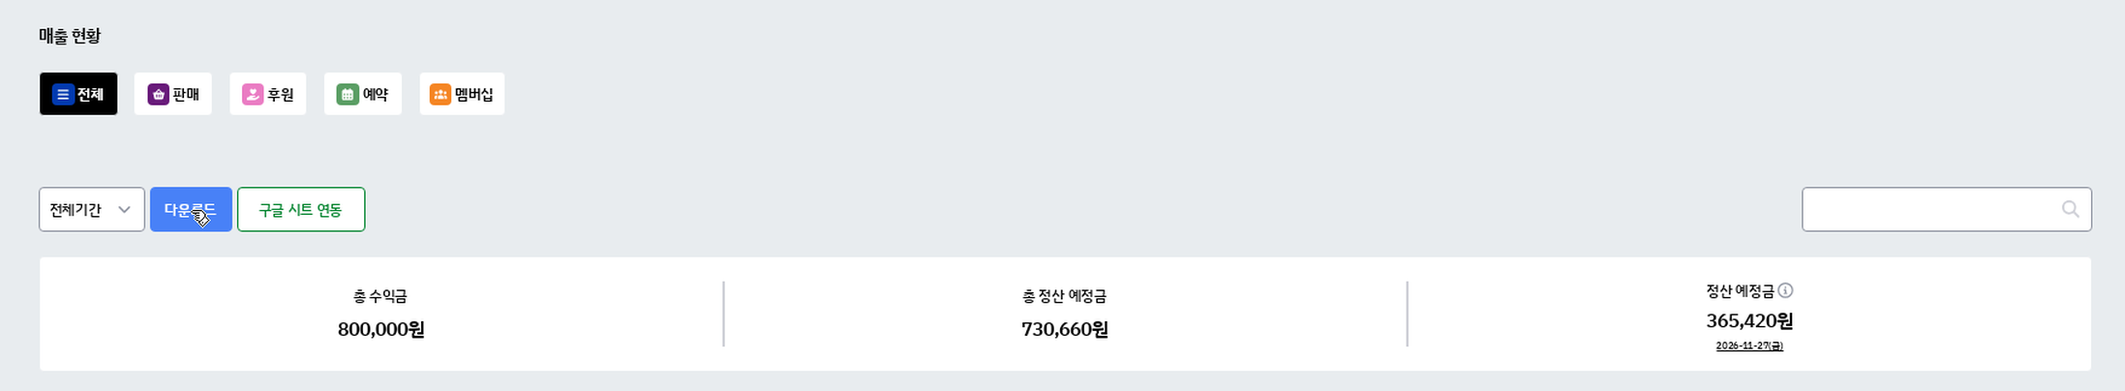
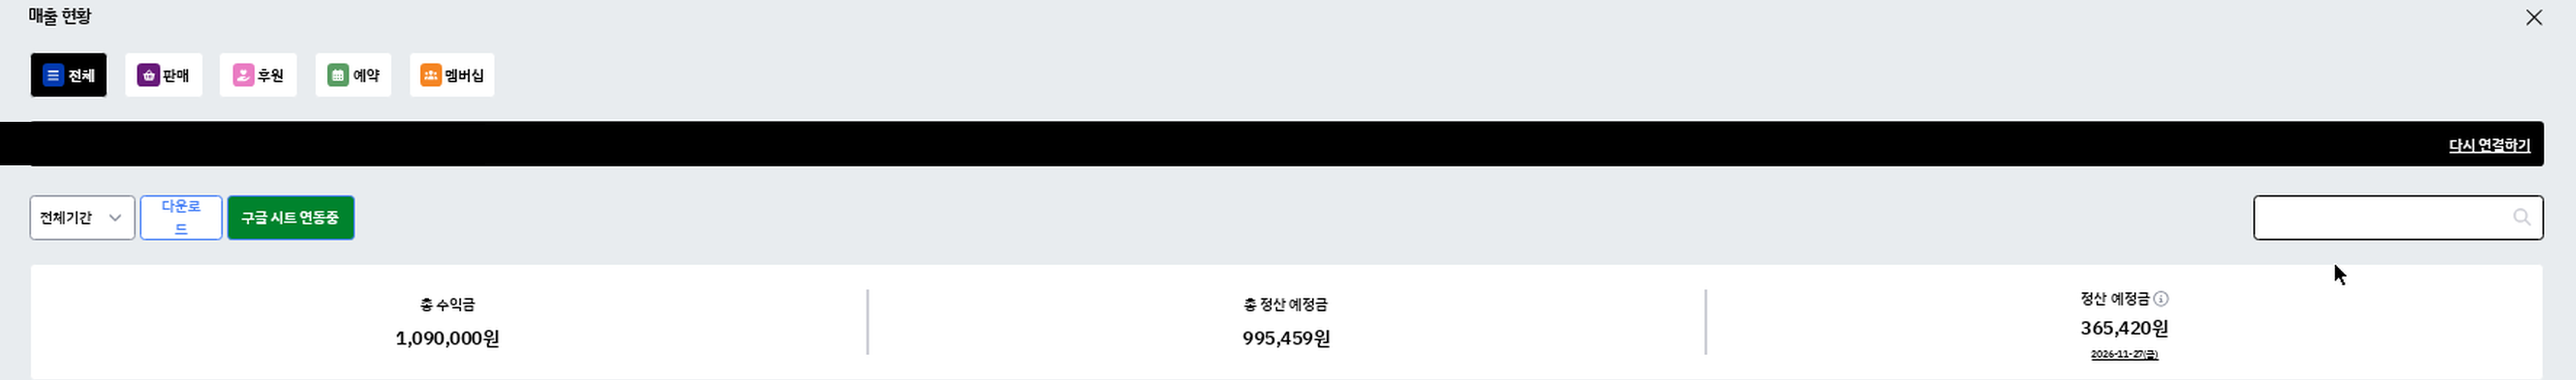
class: 실적 1,090,000원으로 갱신, 리틀리 캡처 2종 최신 교체

diff --git a/class/index.html b/class/index.html
@@ -4,17 +4,17 @@
 <meta charset="utf-8">
 <meta name="viewport" content="width=device-width, initial-scale=1">
 <title>LUDEN CLASS | 폰 하나로 복붙 1초 자동화 세팅 · 11월 한정 50,000원</title>
-<meta name="description" content="300만 원 강의 듣고 정지까지 당해본 사람이 직접 설계한, 월 고정비 0원 실전 자동화 시스템. 스레드·쿠팡파트너스·인스타·블로그·X·토스·쿠파스 7채널을 폰 하나로 세팅하는 올인원 7종 통합본 + 특전 3종. 정가 250,000원 → 11월 한정 50,000원.">
+<meta name="description" content="300만 원 강의 듣고 정지까지 당해본 사람이 직접 설계한, 월 고정비 0원 실전 자동화 시스템. 스레드·쿠팡파트너스·인스타·블로그·X·토스·쿠파스 7채널을 폰 하나로 세팅하는 올인원 7종 통합본 + 특전 3종. 판매 시작 일주일 만에 리틀리 누적 1,090,000원. 정가 250,000원 → 11월 한정 50,000원.">
 <meta name="theme-color" content="#08090B">
 <meta property="og:type" content="website">
 <meta property="og:title" content="LUDEN CLASS | 코딩 몰라도, 노트북 없어도 됩니다">
-<meta property="og:description" content="폰 하나로 복붙 1초 자동화 세팅. 월 고정비 0원 실전 자동화 시스템 · 올인원 7종 통합본 + 특전 3종. 정가 250,000원 → 11월 한정 50,000원.">
+<meta property="og:description" content="폰 하나로 복붙 1초 자동화 세팅. 월 고정비 0원 실전 자동화 시스템 · 올인원 7종 통합본 + 특전 3종. 일주일 만에 리틀리 누적 1,090,000원 판매. 정가 250,000원 → 11월 한정 50,000원.">
 <meta property="og:site_name" content="LUDEN CLASS (루덴 클래스)">
 <meta property="og:image" content="https://khcho0402-sys.github.io/luden-shop/class/og.png">
 <meta property="og:url" content="https://khcho0402-sys.github.io/luden-shop/class/">
 <meta name="twitter:card" content="summary_large_image">
 <meta name="twitter:title" content="LUDEN CLASS | 코딩 몰라도, 노트북 없어도 됩니다">
-<meta name="twitter:description" content="폰 하나로 복붙 1초 자동화 세팅 · 월 고정비 0원 · 11월 한정 50,000원">
+<meta name="twitter:description" content="폰 하나로 복붙 1초 자동화 세팅 · 월 고정비 0원 · 일주일 만에 1,090,000원 판매 · 11월 한정 50,000원">
 <meta name="twitter:image" content="https://khcho0402-sys.github.io/luden-shop/class/og.png">
 <link rel="canonical" href="https://khcho0402-sys.github.io/luden-shop/class/">
[1 lines of base64/hex data omitted]
@@ -668,8 +668,8 @@ footer{border-top:1px solid var(--line);background:#050608;padding:clamp(36px,5.
         <p class="hero-sub reveal">300만 원 강의 듣고 정지까지 당해본 사람이 직접 설계한,<br><b>월 고정비 0원</b> 실전 자동화 시스템.</p>
 
         <div class="badges reveal">
-          <span class="badge"><svg width="13" height="13" viewBox="0 0 24 24" fill="none" stroke="#E9C877" stroke-width="3" stroke-linecap="round" stroke-linejoin="round" aria-hidden="true"><path d="M20 6 9 17l-5-5"/></svg>출시 이틀 만 80만 원+ 매출</span>
-          <span class="badge"><svg width="13" height="13" viewBox="0 0 24 24" fill="none" stroke="#E9C877" stroke-width="3" stroke-linecap="round" stroke-linejoin="round" aria-hidden="true"><path d="M20 6 9 17l-5-5"/></svg>무료 입문서 55명+ 선택</span>
+          <span class="badge"><svg width="13" height="13" viewBox="0 0 24 24" fill="none" stroke="#E9C877" stroke-width="3" stroke-linecap="round" stroke-linejoin="round" aria-hidden="true"><path d="M20 6 9 17l-5-5"/></svg>일주일 만에 109만 원 판매</span>
+          <span class="badge"><svg width="13" height="13" viewBox="0 0 24 24" fill="none" stroke="#E9C877" stroke-width="3" stroke-linecap="round" stroke-linejoin="round" aria-hidden="true"><path d="M20 6 9 17l-5-5"/></svg>무료 입문서 58명 선택</span>
         </div>
 
         <div class="hero-price reveal">
@@ -708,8 +708,8 @@ footer{border-top:1px solid var(--line);background:#050608;padding:clamp(36px,5.
     </div>
 
     <div class="stats reveal">
-      <div class="stat"><div class="num">80만<em>원+</em></div><div class="lb">출시 이틀 누적 매출</div></div>
-      <div class="stat"><div class="num">55<em>명+</em></div><div class="lb">0원 무료 입문서 선택</div></div>
+      <div class="stat"><div class="num">109만<em>원</em></div><div class="lb">11/17~21 리틀리 누적 매출</div></div>
+      <div class="stat"><div class="num">58<em>명</em></div><div class="lb">0원 무료 입문서 신청</div></div>
       <div class="stat"><div class="num">7<em>종</em></div><div class="lb">한 번에 세팅하는 채널</div></div>
       <div class="stat"><div class="num">0<em>원</em></div><div class="lb">매달 나가는 고정비</div></div>
     </div>
@@ -940,15 +940,15 @@ footer{border-top:1px solid var(--line);background:#050608;padding:clamp(36px,5.
 
     <div class="proof reveal">
       <div class="proof-main">
-        <div class="big">800,000<span>원</span></div>
-        <p>리틀리 관리자 화면의 누적 수익금. 이전 판매분을 포함한 누적 금액이며, 5만 원 통합본 전환 이후 결제가 이어지며 도달한 숫자입니다.</p>
-        <div class="proof-foot" style="margin-top:18px">2026년 11월 20일 오전, 리틀리 판매 관리 화면 캡처 기준.</div>
+        <div class="big">1,090,000<span>원</span></div>
+        <p>리틀리 관리자 화면의 누적 수익금. 1,000원 시절 판매분과 5만 원 통합본·1만 원 단품 판매분을 모두 더한 금액입니다.</p>
+        <div class="proof-foot" style="margin-top:18px">2026년 11월 21일 19:45, 리틀리 매출 현황 화면 캡처 기준. 총 정산 예정금 995,459원.</div>
       </div>
       <div class="proof-side">
         <div class="proof-box">
-          <div class="lbl">Consecutive orders</div>
-          <div class="val">7<em>건</em></div>
-          <p>11월 18일 21:05 ~ 19일 23:05, 50,000원 결제가 끊기지 않고 이어진 기록.</p>
+          <div class="lbl">Paid orders · 4 days</div>
+          <div class="val">21<em>건</em></div>
+          <p>11월 18일 09:31 ~ 21일 19:23, 5만 원 17건 + 1만 원 4건 = 890,000원.</p>
         </div>
         <div class="proof-box">
           <div class="lbl">Purchaser reviews</div>
@@ -959,32 +959,32 @@ footer{border-top:1px solid var(--line);background:#050608;padding:clamp(36px,5.
     </div>
 
     <div class="shots">
-      <button type="button" class="shot reveal" data-zoom="assets/proof-daily-sales.png" data-cap="50,000원 결제 내역 (11.18 21:05 ~ 11.19 23:05)" data-alt="리틀리 판매 관리 화면의 50,000원 결제 내역 목록, 주문자 정보 모자이크 처리">
-        <span class="thumb"><img src="assets/proof-daily-sales.png" alt="50,000원 결제 내역이 연속으로 표시된 판매 관리 화면, 주문자 정보 모자이크" width="1875" height="1206" loading="lazy"></span>
+      <button type="button" class="shot reveal" data-zoom="assets/proof-daily-sales.png" data-cap="50,000원 결제 10건 연속 (11.18 13:13 ~ 11.19 23:05)" data-alt="리틀리 판매 관리 화면의 50,000원 결제 내역 10건 목록, 주문자 정보 모자이크 처리">
+        <span class="thumb"><img src="assets/proof-daily-sales.png" alt="50,000원 결제 내역이 연속으로 표시된 판매 관리 화면, 주문자 정보 마스킹" width="2630" height="1293" loading="lazy"></span>
         <span class="cap">
-          <span class="row"><span class="t">① 50,000원 결제 7건 연속</span><span class="z">⤢ 크게 보기</span></span>
-          <span class="s">주문번호·결제 시각·금액이 그대로 남은 판매 내역. 11월 18일 21:05부터 19일 23:05까지 이어집니다.</span>
+          <span class="row"><span class="t">① 5만 원 결제 10건 연속</span><span class="z">⤢ 크게 보기</span></span>
+          <span class="s">11월 18일 13:13부터 19일 23:05까지, 5만 원 결제만 10건. 주문번호·결제 시각·금액이 그대로 남은 판매 내역입니다.</span>
         </span>
       </button>
 
-      <button type="button" class="shot reveal" data-zoom="assets/proof-revenue.png" data-cap="리틀리 누적 수익금 800,000원" data-alt="리틀리 판매 관리 화면의 누적 수익금 800,000원 표시">
-        <span class="thumb"><img src="assets/proof-revenue.png" alt="리틀리 판매 관리 화면에 표시된 총 수익금 800,000원" width="2195" height="404" loading="lazy"></span>
+      <button type="button" class="shot reveal" data-zoom="assets/proof-revenue.png" data-cap="리틀리 누적 수익금 1,090,000원" data-alt="리틀리 판매 관리 화면의 누적 수익금 1,090,000원 표시">
+        <span class="thumb"><img src="assets/proof-revenue.png" alt="리틀리 판매 관리 화면에 표시된 총 수익금 1,090,000원" width="2660" height="393" loading="lazy"></span>
         <span class="cap">
-          <span class="row"><span class="t">② 누적 수익금 800,000원</span><span class="z">⤢ 크게 보기</span></span>
-          <span class="s">2026년 11월 20일 리틀리 판매 관리 화면. 총 수익금·정산 예정금이 함께 표시됩니다.</span>
+          <span class="row"><span class="t">② 누적 수익금 1,090,000원</span><span class="z">⤢ 크게 보기</span></span>
+          <span class="s">2026년 11월 21일 리틀리 매출 현황 화면. 총 수익금·총 정산 예정금·정산 예정금(2026년 11월 27일)이 함께 표시됩니다.</span>
         </span>
       </button>
 
-      <button type="button" class="shot reveal" data-zoom="assets/proof-reviews-1.png" data-cap="5만 원 전환 후 최신 구매후기 3건" data-alt="2026년 11월 18일~19일에 작성된 구매후기 3건 캡처">
+      <button type="button" class="shot reveal" data-zoom="assets/proof-reviews-1.png" data-cap="5만 원 전환 후 구매후기 3건" data-alt="2026년 11월 18일~19일에 작성된 구매후기 3건 캡처">
         <span class="thumb"><img src="assets/proof-reviews-1.png" alt="11월 18일과 19일에 작성된 구매후기 3건" width="1220" height="348" loading="lazy"></span>
         <span class="cap">
-          <span class="row"><span class="t">③ 최신 구매후기 3건</span><span class="z">⤢ 크게 보기</span></span>
-          <span class="s">구매후기 14건 중 가장 위에 올라온 3건. 작성자 아이디만 가렸습니다.</span>
+          <span class="row"><span class="t">③ 구매후기 3건</span><span class="z">⤢ 크게 보기</span></span>
+          <span class="s">구매후기 14건 중 위에 올라온 3건. 작성자 아이디만 가렸습니다.</span>
         </span>
       </button>
     </div>
 
-    <p class="proof-foot reveal">캡처 3종은 2026년 11월 20일 리틀리 판매 관리·상품 페이지 화면이며, 개인정보(주문자·후기 작성자)만 모자이크 처리했습니다. 그 외 수치·기간은 보정하지 않았습니다. 과거의 판매 기록이며, 구매자의 수익을 보장하지 않습니다.</p>
+    <p class="proof-foot reveal">캡처는 2026년 11월 21일 19:45 리틀리 관리자 화면이며, 개인정보(주문자 이름·이메일·휴대폰, 정산 계좌번호)만 가렸습니다. 그 외 수치·기간은 보정하지 않았습니다. 과거의 판매 기록이며, 구매자의 수익을 보장하지 않습니다.</p>
   </div>
 </section>
 
